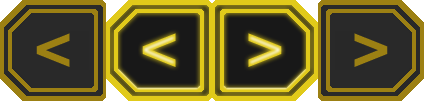
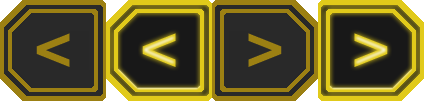
Lobby: Navigation buttons visually added.

Changed region(s): [[0.4906, 0.0, 1.0, 1.0], [0.8278, 0.3267, 0.9198, 0.6832], [0.5825, 0.3267, 0.6745, 0.6832]]

diff --git a/data/states/lobby_screen.py b/data/states/lobby_screen.py
@@ -3,7 +3,8 @@ import json
 import pygame as pg
 
 from .. import tools, prepare
-from ..components.labels import Label, GameButton, NeonButton, ButtonGroup
+from ..components.labels import Label, GameButton, NeonButton
+from ..components.labels import Button, ButtonGroup
 from ..components.flair_pieces import ChipCurtain
 
 
@@ -28,16 +29,17 @@ class LobbyScreen(tools._State):
                       ("Craps", "CRAPS"), ("Keno", "KENO"),
                       ("video_poker", "VIDEOPOKER"), ("Pachinko", "PACHINKO")]
         game_buttons = self.make_game_buttons(screen_rect)
+        nav_buttons = self.make_navigation_buttons(screen_rect)
         main_buttons = self.make_main_buttons(screen_rect)
-        self.buttons = ButtonGroup(game_buttons, main_buttons)
+        self.buttons = ButtonGroup(game_buttons, nav_buttons, main_buttons)
         self.chip_curtain = None #Created on startup.
 
     def make_game_buttons(self, screen_rect):
         columns = 3
         width, height = GameButton.width, GameButton.height
-        spacer_x, spacer_y = 50, 100
+        spacer_x, spacer_y = 50, 80
         start_x = (screen_rect.w-width*columns-spacer_x*(columns-1))//2
-        start_y = screen_rect.top+130
+        start_y = screen_rect.top+105
         step_x, step_y = width+spacer_x, height+spacer_y
         buttons = ButtonGroup()
         for i,data in enumerate(self.games):
@@ -47,8 +49,24 @@ class LobbyScreen(tools._State):
             GameButton(pos, game, self.start_game, payload, buttons)
         return buttons
 
-    def make_navigation_buttons(self):
-        pass
+    def make_navigation_buttons(self, screen_rect):
+        sheet = prepare.GFX["nav_buttons"]
+        size = (106,101)
+        y = 790
+        from_center = 15
+        icons = tools.strip_from_sheet(sheet, (0,0), size, 4)
+        buttons = ButtonGroup()
+        l_kwargs = {"idle_image" : icons[0], "hover_image" : icons[1],
+                    "call" : self.scroll_page, "args" : -1,
+                    "bindings" : [pg.K_LEFT, pg.K_KP4]}
+        r_kwargs = {"idle_image"  : icons[2], "hover_image" : icons[3],
+                    "call" : self.scroll_page, "args" : 1,
+                    "bindings" : [pg.K_RIGHT, pg.K_KP6]}
+        left = Button(((0,y),size), buttons, **l_kwargs)
+        left.rect.right = screen_rect.centerx-from_center
+        right = Button(((0,y),size), buttons, **r_kwargs)
+        right.rect.x = screen_rect.centerx+from_center
+        return buttons
 
     def make_main_buttons(self, screen_rect):
         buttons = ButtonGroup()
@@ -62,6 +80,9 @@ class LobbyScreen(tools._State):
         NeonButton(pos, "Exit", self.exit_game, None,
                    buttons, bindings=[pg.K_ESCAPE])
         return buttons
+
+    def scroll_page(self, direction):
+        pass
 
     def start_game(self, chosen_game):
         self.done = True
